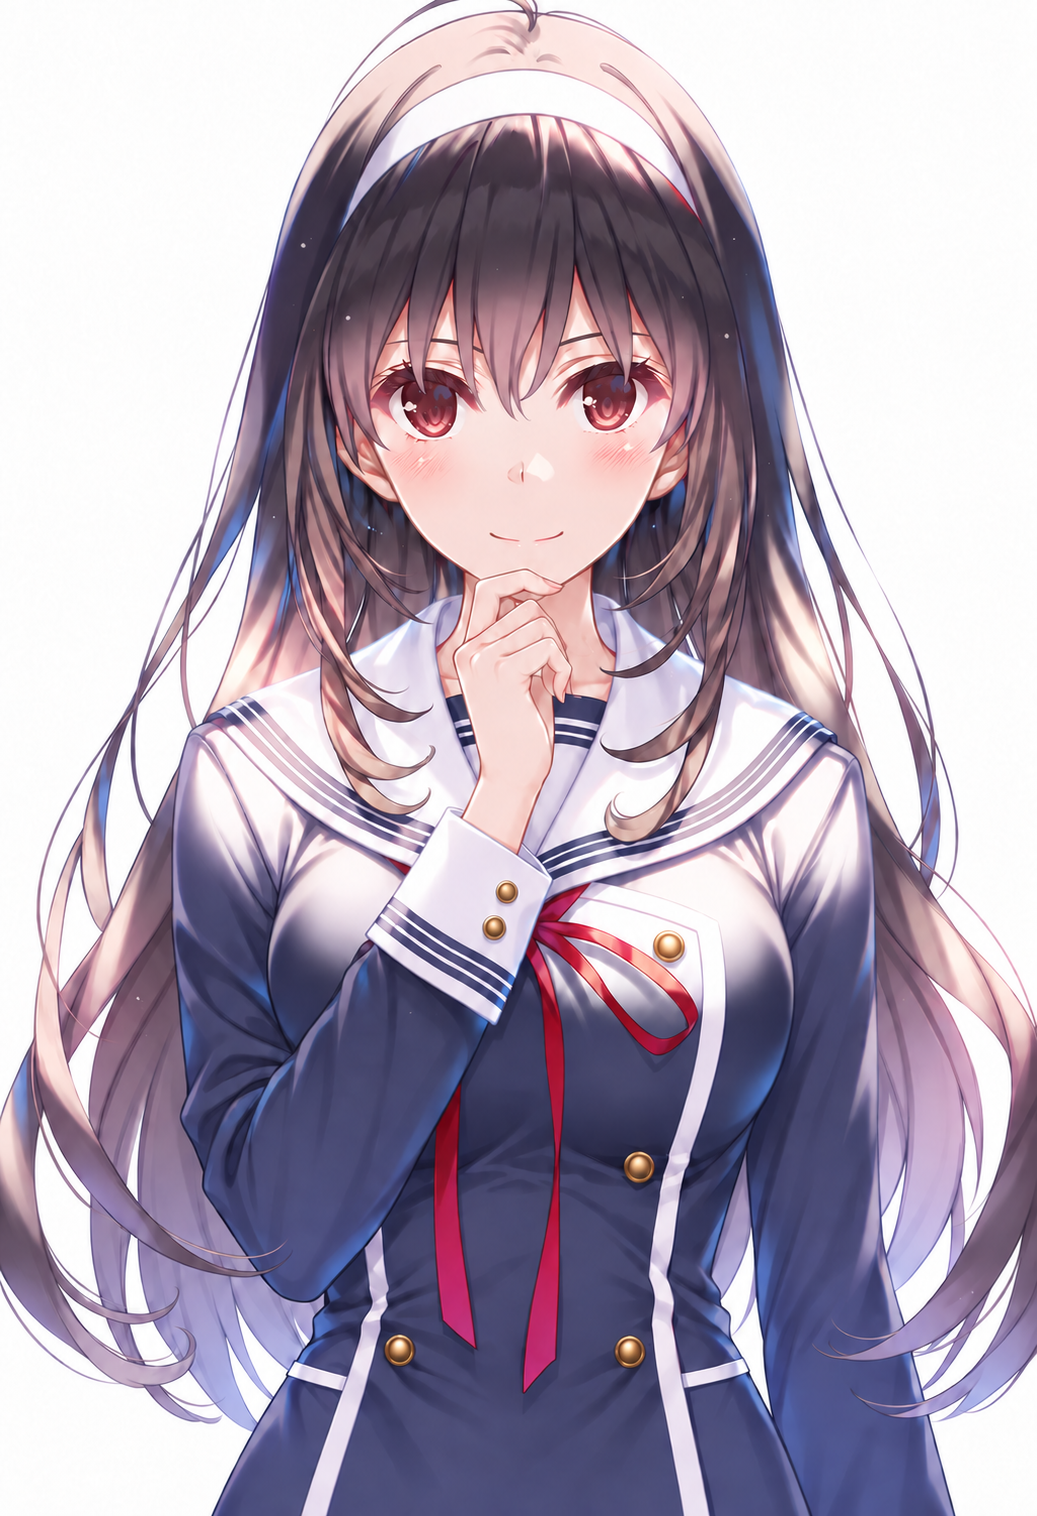
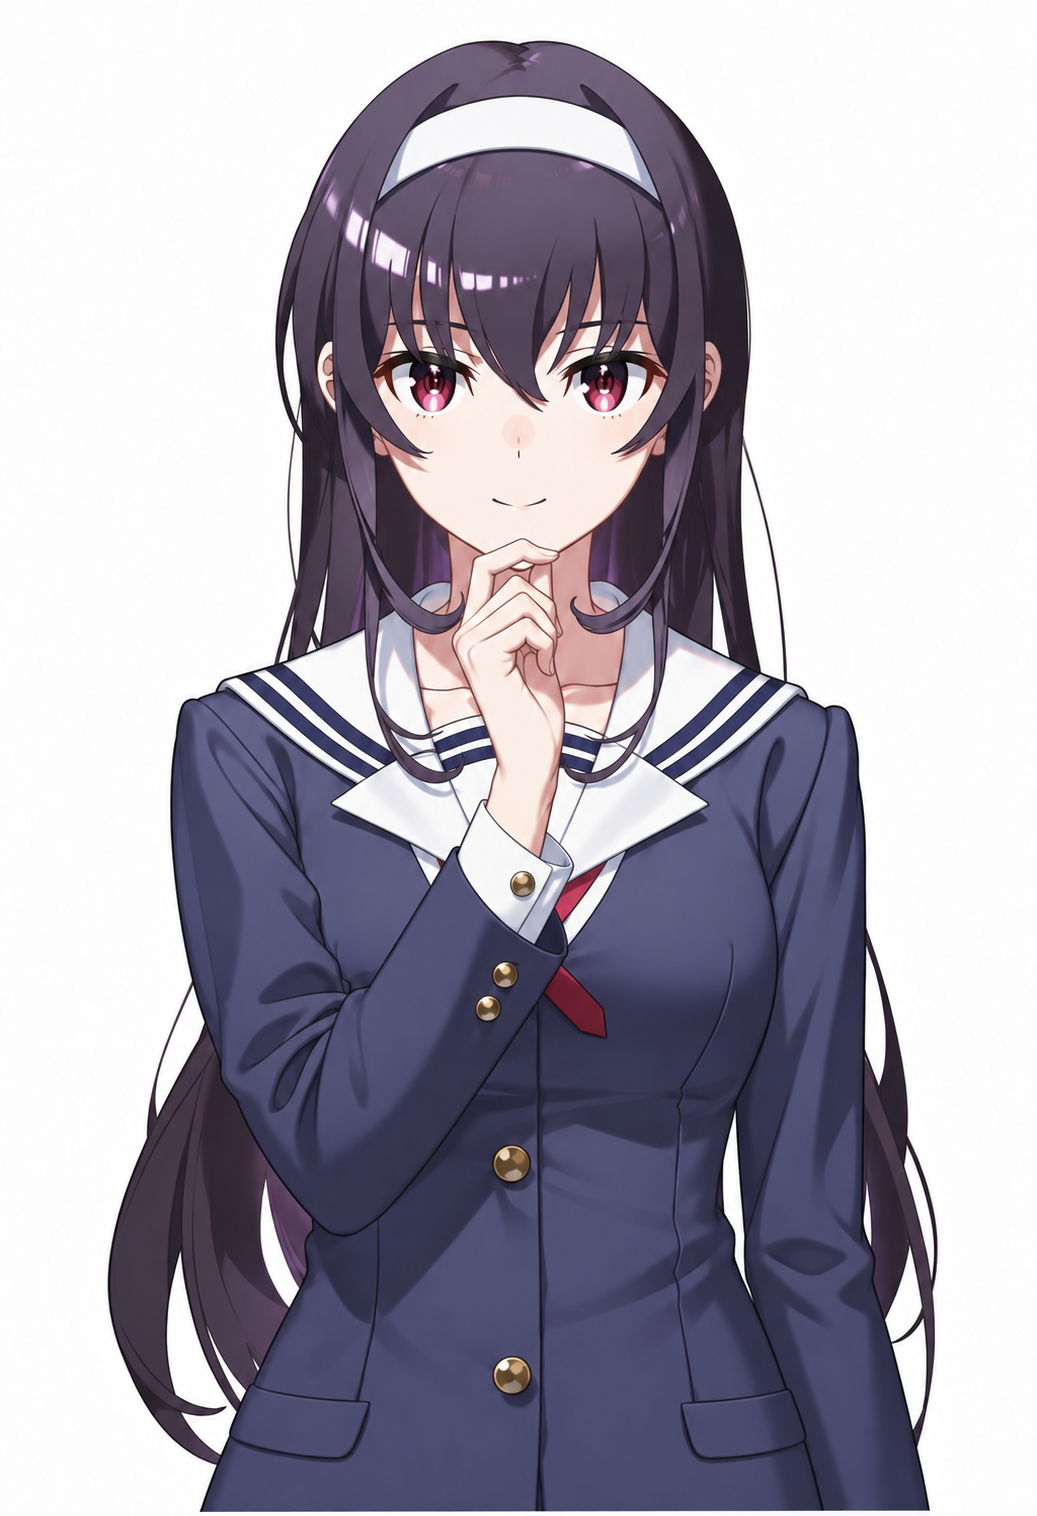
Update 霞之丘诗羽 default portrait

diff --git a/images/portraits/saekano/kasumigaoka-utaha/README.md b/images/portraits/saekano/kasumigaoka-utaha/README.md
@@ -1,9 +1,9 @@
 # 霞之丘诗羽 · 常规立绘
 
 - 当前文件：[default.png](default.png)。
-- 用户选定原图：`217-utaha-thinner-brows-v3-s582122933-20260913.png`。
-- 尺寸：1037 × 1516；大小：1,850,772 字节。
[1 lines of base64/hex data omitted]
+- 用户选定原图：`exec-6e31f59f-ee22-4e2f-94d7-b981fd678ec8.png`。
+- 尺寸：1037 × 1516；大小：1,505,405 字节。
[1 lines of base64/hex data omitted]
 - PNG 模型记录：未知。
 - 可读取的生成参数：seed 未知；steps 未知；scale 未知；cfg_rescale 未知；sampler 未知；noise_schedule 未知。
 - 原图字节及内嵌数据完整保留，没有裁切、缩放、抠图或重新编码。
